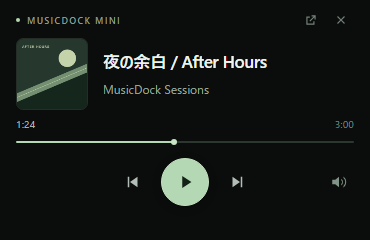
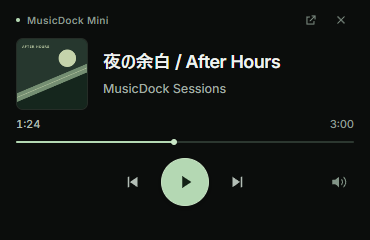
Show the updated v2.0.2 typography on the public download site

diff --git a/apps/website/index.html b/apps/website/index.html
@@ -7,5 +7,5 @@
 <section id="installation" class="wrap section installation"><div><p class="eyebrow">READY IN A FEW STEPS</p><h2>いつものブラウザに、<br>小さな居場所を。</h2><p class="muted">ストア未公開のプレビュー版です。<br>ZIPを展開して手動で読み込みます。</p><a class="quiet" href="./install.html">詳しい導入ガイド ↗</a></div><ol class="steps"><li><span>01</span><div><h3>ZIPをダウンロードして展開</h3><p>展開先は、削除しない場所に保管してください。</p></div></li><li><span>02</span><div><h3>拡張機能として読み込む</h3><p>chrome://extensions または edge://extensions で開発者モードをオンにし、「展開して読み込み」を選択。</p></div></li><li><span>03</span><div><h3>YouTube Musicで「♫ MINI」をクリック</h3><p>すでに開いているタブは更新。曲を選んで、小窓を開くだけ。</p></div></li></ol></section>
 <section id="faq" class="wrap section faq"><p class="eyebrow">A FEW GOOD ANSWERS</p><h2>よくある質問</h2><details><summary>無料で使えますか？</summary><p>拡張機能は無料です。YouTube Music側の料金・広告・再生条件はそのまま適用されます。</p></details><details><summary>小窓が開かないときは？</summary><p>最新のデスクトップ版Chrome / EdgeでYouTube Musicを開き、「♫ MINI」を直接クリックしてください。PiPが管理者やブラウザ設定で禁止されている場合は利用できません。</p></details><details><summary>元のタブを閉じても使えますか？</summary><p>元のYouTube Musicタブは開いたままにしてください。閉じたり再読み込みしたりすると小窓も閉じます。更新後は「♫ MINI」から再起動できます。</p></details><details><summary>曲情報やボタンが反応しません</summary><p>元タブで曲を選び直し、通信・再生エラーを確認してください。YouTube MusicのDOM変更により動作しなくなる場合があります。操作対象を取得できないときはボタンを無効にします。</p></details><details><summary>公式アプリですか？</summary><p>いいえ。Google / YouTubeと提携・承認関係のない第三者ツールです。MusicDock Miniは仮称で、商標登録の確認は完了していません。</p></details></section>
 <section id="download" class="wrap download"><div><p class="eyebrow">MAKE ROOM FOR MUSIC</p><h2>次の一曲も、<br>あなたのそばに。</h2><p>v2.0.2 プレビュー版 · Chrome / Edge · Windows</p></div><div><a class="cta" download href="./musicdock-mini-2.0.2.zip">拡張機能ZIPをダウンロード ↓</a><p class="small"><a href="./SHA256SUMS.txt">SHA-256</a> &nbsp; / &nbsp; <a href="#releases">変更履歴</a></p></div></section>
-<section class="wrap release" id="releases"><h2>Releases</h2><p><strong>2.0.2 · 2026.10.24</strong> &nbsp; 再生バーとメディアの同期検証、曲切り替え中の誤シーク防止、v2 UIを統合。</p><p class="small">公開状況：ストア未公開。実サービス上の互換性確認は継続中です。デモの曲名・アートは架空です。</p></section></main>
+<section class="wrap release" id="releases"><h2>Releases</h2><p><strong>2.0.2 · 2026.10.24</strong> &nbsp; Interフォントを同梱し、曲名・アーティスト・再生時間の文字階層を再設計。Windows Chromeで描画検証。</p><p class="small">公開状況：ストア未公開。実サービス上の互換性確認は継続中です。デモの曲名・アートは架空です。</p></section></main>
 <footer class="wrap"><a class="logo" href="#top">MusicDock <span>Mini</span></a><p>YouTube Musicのための非公式ツール。</p><a href="./privacy.html">プライバシー</a><a href="./install.html">導入ガイド</a></footer></body></html>
